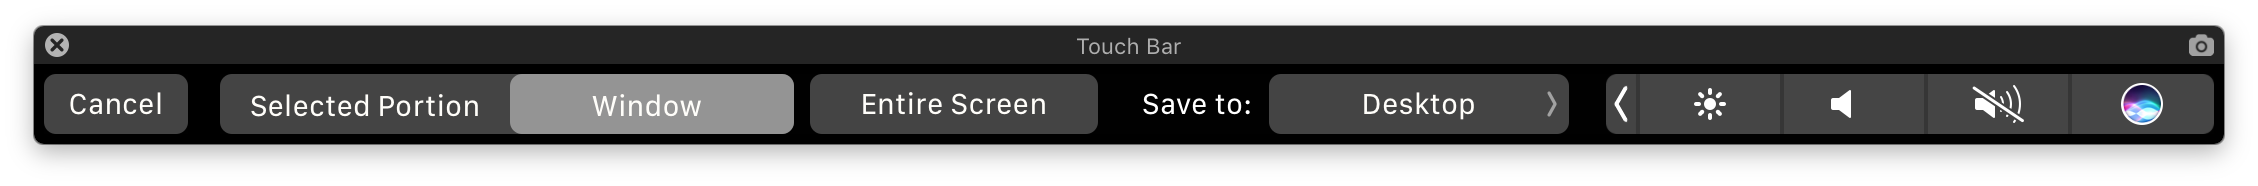
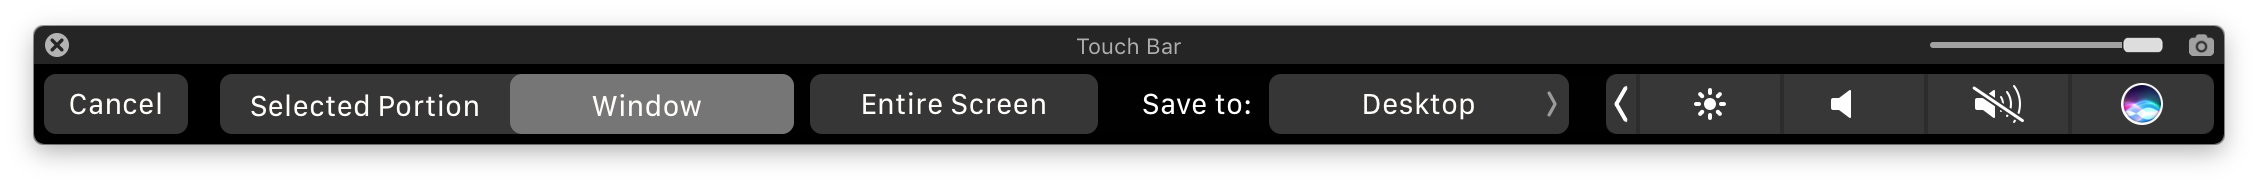
Various minor improvements

Changed region(s): [[0.217, 0.3763, 0.372, 0.7258], [0.837, 0.1882, 0.961, 0.2957]]

diff --git a/Touch Bar Simulator/main.swift b/Touch Bar Simulator/main.swift
@@ -10,9 +10,11 @@ import Cocoa
 
 final class AppDelegate: NSObject, NSApplicationDelegate, NSWindowDelegate {
 	let controller = IDETouchBarSimulatorHostWindowController.simulatorHostWindowController()!
+	var toolbarView: NSView!
 
 	func applicationDidFinishLaunching(_ notification: Notification) {
 		controller.window?.delegate = self
+		toolbarView = controller.window!.standardWindowButton(.closeButton)!.superview!
 		addScreenshotButton()
 		addTransparencySlider()
 	}
@@ -22,7 +24,6 @@ final class AppDelegate: NSObject, NSApplicationDelegate, NSWindowDelegate {
 	}
 
 	func addScreenshotButton() {
-		let toolbarView = controller.window!.standardWindowButton(.closeButton)!.superview!
 		let button = NSButton()
 		button.image = #imageLiteral(resourceName: "ScreenshotButton")
 		button.imageScaling = .scaleProportionallyDown
@@ -43,15 +44,14 @@ final class AppDelegate: NSObject, NSApplicationDelegate, NSWindowDelegate {
 		keyDown?.post(tap: loc)
 		keyUp?.post(tap: loc)
 	}
-	
+
 	func addTransparencySlider() {
-		let toolbarView = controller.window!.standardWindowButton(.closeButton)!.superview!
 		let slider = ToolbarSlider()
 		slider.frame = CGRect(x: toolbarView.frame.width - 150, y: 4, width: 120, height: 11)
-		slider.action = #selector(settTransparency)
+		slider.action = #selector(setTransparency)
 		toolbarView.addSubview(slider)
-		
-		var transparency = UserDefaults.standard.double(forKey: "TransparencySlider")
+
+		var transparency = UserDefaults.standard.double(forKey: "windowTransparency")
 		if transparency == 0 {
 			transparency = 0.75
 		}
@@ -59,10 +59,10 @@ final class AppDelegate: NSObject, NSApplicationDelegate, NSWindowDelegate {
 		slider.doubleValue = transparency
 		controller.window!.alphaValue = CGFloat(slider.doubleValue)
 	}
-	
-	func settTransparency(sender : NSSlider) {
+
+	func setTransparency(sender: NSSlider) {
 		controller.window!.alphaValue = CGFloat(sender.doubleValue)
-		UserDefaults.standard.set(sender.doubleValue, forKey: "TransparencySlider")
+		UserDefaults.standard.set(sender.doubleValue, forKey: "windowTransparency")
 	}
 }
 

diff --git a/Touch Bar Simulator/ToolbarSlider.swift b/Touch Bar Simulator/ToolbarSlider.swift
@@ -2,56 +2,49 @@
 //  ToolbarSlider.swift
 //  Touch Bar Simulator
 //
-//  Created by Wayne Yeh on 2017/3/20.
-//  Copyright © 2017年 Sindre Sorhus. All rights reserved.
+//  Created by Wayne Yeh on 2017/3/20
+//  MIT License © Sindre Sorhus
 //
 
 import Cocoa
 
-private class ToolbarSliderCell: NSSliderCell {
-	
-	static var knob: NSImage = {
+private final class ToolbarSliderCell: NSSliderCell {
+	private static let knob: NSImage = {
 		let frame = NSRect(x: 0, y: 0, width: 32, height: 32)
-		
+
 		let image = NSImage(size: frame.size)
 		image.lockFocus()
-		
-		// draw a rounded Rectangle
+
+		// Circle
 		let path = NSBezierPath(roundedRect: frame, xRadius: 4, yRadius: 12)
 		NSColor.lightGray.set()
 		path.fill()
-		
-		// draw edge
+
+		// Border
 		NSColor.black.set()
 		path.lineWidth = 2
 		path.stroke()
-		
+
 		image.unlockFocus()
 		return image
 	}()
-	
+
 	override func drawKnob(_ knobRect: NSRect) {
 		ToolbarSliderCell.knob.draw(in: knobRect.insetBy(dx: 0, dy: 6.5))
 	}
-	
 }
 
-class ToolbarSlider: NSSlider {
-	
+final class ToolbarSlider: NSSlider {
 	override init(frame: CGRect) {
 		super.init(frame: frame)
-		addBehavior()
+		cell = ToolbarSliderCell()
 	}
-	
+
 	convenience init() {
 		self.init(frame: CGRect.zero)
 	}
-	
+
 	required init?(coder: NSCoder) {
 		fatalError("init(coder:) has not been implemented")
-	}
-	
-	func addBehavior() {
-		self.cell = ToolbarSliderCell()
 	}
 }

diff --git a/readme.md b/readme.md
@@ -2,7 +2,9 @@
 
 > Launch the Touch Bar simulator from anywhere without needing to have Xcode installed
 
-Whereas Apple requires you to launch it from inside Xcode. This app also comes with a handy screenshot button.
+Whereas Apple requires you to launch it from inside Xcode.
+
+This app also comes with a handy transparency slider and screenshot button.
 
 **[Discuss it on Product Hunt](https://www.producthunt.com/posts/touch-bar-simulator)**
 
@@ -33,6 +35,7 @@ You can capture a screenshot of the Touch Bar by either:
 
 - Doesn't require Xcode
 - Signed binary
+- Transparency slider
 - Screenshot button
 - Doesn't steal focus when launched
 - Doesn't take up space in the Dock or app switcher
